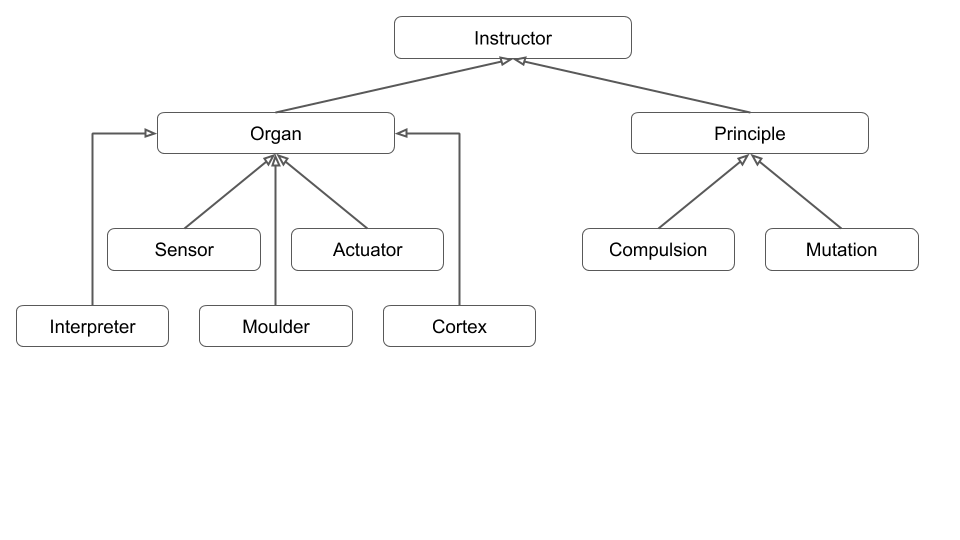
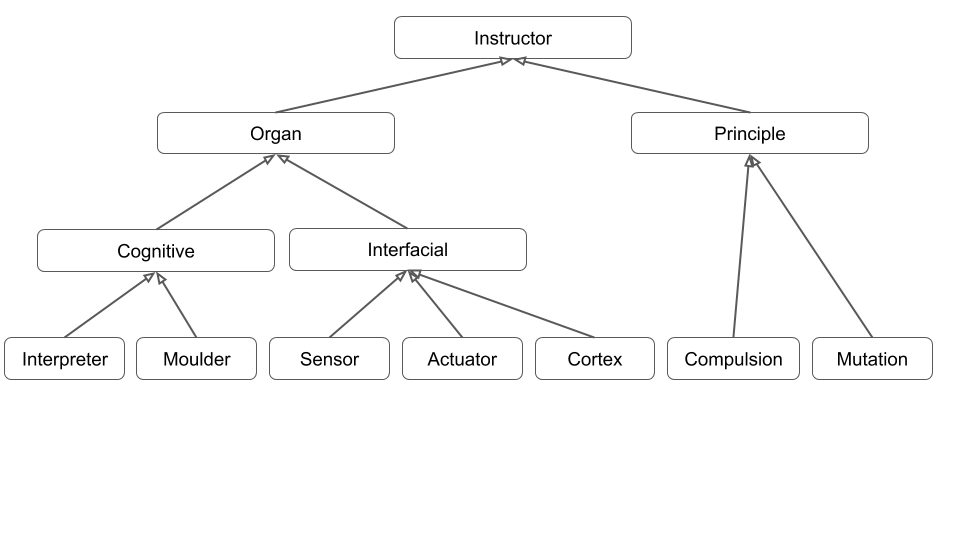
Further updates to the Agent Instructor and Array documentations. More or less complete with respect to these two parent and associated child classes

diff --git a/docs/source/fjarrsyn_outline.rst b/docs/source/fjarrsyn_outline.rst
@@ -89,48 +89,146 @@ An *Array* encodes content. Content can correspond to information in the
 real-world that is modelled. Content can correspond to substance in
 the real-world that is modelled. 
 
-An *Imprint* is a type of Array whose content is persistent. That means
+An *Imprint* is a type of Array with persistent content. That means
 that once the content is input to a process of an Instructor, the
-Imprint remains in memory unchanged.
+Imprint remains in memory unchanged. Imprints can be updated as
+output from an Instructor, see below.
 
-A *Belief* is an Imprint that represents the conscious and interpreted
+A *Belief* is an Imprint that represents the manifest interpreted
 understanding an Agent has of its environment and possibly of its own
-internal state. Beliefs can be formed and updated through intentional
+internal state. Beliefs are formed and updated through intentional
 actions by the Agent. Content of Belief is information.
 
 A *Resource* is an Imprint that represents objects that can be
-transacted as part of intentional actions by the Agent, as well as
-non-intentional actions. Resource defines an object variable of
+transacted as part of intentional as well as non-intentional actions 
+by the Agent. Resource defines an object variable of
 the Agent. An example of a real-world object that can be modelled
 as a Resource is cash on hand.
 
 An *Essence* is an Imprint that represents properties that can
 configure intentional actions by the Agent, as well as
 non-intentional actions. Essence defines a parameter of the
-Agent. An example of a real-world object that can be modelled
+Agent, though it is beyond the *intentional* adjustment of
+the Agent. An example of a real-world object that can be modelled
 as an Essence is the DNA code.
 
 A *Flash* is a type of Array whose content is transient. That means that
 once the content is input to a process of an Instructor, the Flash
 is lost from memory.
 
-<CONTINUE HERE>
+A *Buzz* is a Flash that represents the content immediately present
+within an Agent upon sensing the external environment. In some literature
+this content is called the *sense datum*. Buzz is *not* an interpreted
+content. An example of a real-world object that can be modelled
+as a Buzz is the electric waveform generated by a transducer.
+
+A *Direction* is a Flash that represent the inferred intention to
+take a specific action. The Direction is not the action itself, that
+instead follows from an Actuator that receives the Direction as input. 
+
+A *Feature* is a Flash that represent how an intrinsic property of the
+Agent appear to an external observer. As described in relation to the
+Cortex Instructor below, this models a property of the Agent beyond the
+Agent's intentional control.
+
+As noted in the Introduction the exact boundaries between what is contained
+in the various Arrays are a matter of model conventions, like what is
+intentional and what is non-intentional.
 
 Instructor Definitions
 ----------------------
 
-Bla bla
+The types of Instructors are hierarchically defined in parent-child relations
+as represented in the figure below. In practical usage of Fjarrsyn, 
+only the Instructors at the lowest level are used.
 
 .. image:: /_static/fjarrsyn_figs-3.png
+
+An *Instructor* encodes function. Function can correspond to transformation
+of content of the real-world that is modelled. Therefore Arrays in
+Fjarrsyn only changes as output from Instructors.
+
+An *Organ* is an Instructor internal to the Agent. All intentional aspects
+of an Agent involve Organs. Organs can take as input the Essence and 
+Resources of the Agent (these connections are omitted from the earlier figure).
+Organs can have mandatory, or primary, input and output Arrays, as well as
+secondary output Arrays, as described in detail in the next section.
+
+An *Interfacial Organ* is an Organ that engages 
+directly with the external environment. A *Cognitive Organ* is an Organ that is
+not engaging directly with the external environment, rather interprets 
+sense data and creates (or selects) intentions in relation to the 
+*perceived* external environment. This division enables Agent models that
+are not naively realist, rather where mistakes, lies and uncertainty can
+be part of the model. As stated elsewhere, there are convenience methods
+to model simpler Agents that do not require this differentiation.
+
+A *Sensor* is an Interfacial Organ that upon execution interacts with a
+property of the environment (in some literature called the precept) 
+and creates Buzz as its primary output.
+
+An *Actuator* is an Interfacial Organ that upon execution takes a Direction
+as input and interacts with a property of the environment, typically to alter
+it, though the environment can contain friction, which prevents the 
+intention to be actualized. An Actuator has no primary output.
+
+A *Cortex* is an Interfacial Organ that upon execution generates a Feature
+for an external Agent to access. The Cortex therefore reveals to an external
+observer an intrinsic property of the Agent. Typically the Feature is 
+derived from the Essence and Resources of the Agent, though the relation
+does not have to be an identity relation, such that obscured, imprecise or
+adulterated relations between what is instrincically factual and what is
+revealed to an observer can be modelled.
+
+An *Interpreter* is a Cognitive Organ that upon execution takes Buzz and
+optionally Beliefs as input and creates Belief, or updates to Beliefs, 
+as output. The Interpreter models the cognitive layer between sensing
+the external environment and forming an understanding or belief of the
+environment, such that belief can be in an incomplete, imprecise or 
+adulterated relation to the factual state of the environment.
+
+A *Moulder* is a Cognitive Organ that upon execution takes Belief as
+input and creates Direction as primary output. The Moulder models the
+cognitive layer between a belief about the world and an intention to
+engage with the world somehow, such that intrinsic conditions with respect
+to the relevant Actuator can make an intention to act in a certain
+way not be actualized that way.
+
+A *Principle* is an Instructor external to the Agent. All necessary laws that
+constrain or govern non-intentional transformations of content internal
+to the Agent are modelled as a Principle. 
+
+A *Mutation* is a Principle that alters the Essence of an Agent. The 
+Mutation is a property of the Agent System Manager (ASM), see further below,
+but it can be specifically applied to a given Agent. An example of a real-world
+function that can be modelled as a Mutation is a random mutation to the
+genetic code of an Agent or the physical degradation of a semiconductor with
+time.
+
+A *Compulsion* is a Principle that alters the Resource of an Agent. The
+Compulsion is a property of the Agent System Manager (ASM), see further below,
+but it can be specifically applied to a given Agent. An example of a real-world
+gunction that can be modelled as a Compulsion is the necessary energy expended
+upon mechanical motion or a rate of inflation that reduces the real value
+of cash on hand with time.
+
+The Mutation and Compulsion are only semantically distinct given that
+both Essence and Resource are Imprints, and that they are both Principles. 
+Essence and Resource relate to the function of Organs differently, however, 
+and therefore the semantic distinction is justified. 
+
+For simpler Agents Principles do not model any property of the system
+under study. Therefore Principles are optional features.
 
 Instructor Method Types
 -----------------------
 
-Bla bla
+In this section the internal structure of an Instructor are described and
+terminology is defined.
 
-Agent System Definition
------------------------
+Agent System Manager (ASM)
+--------------------------
 
-Bla bla
+
 
 
